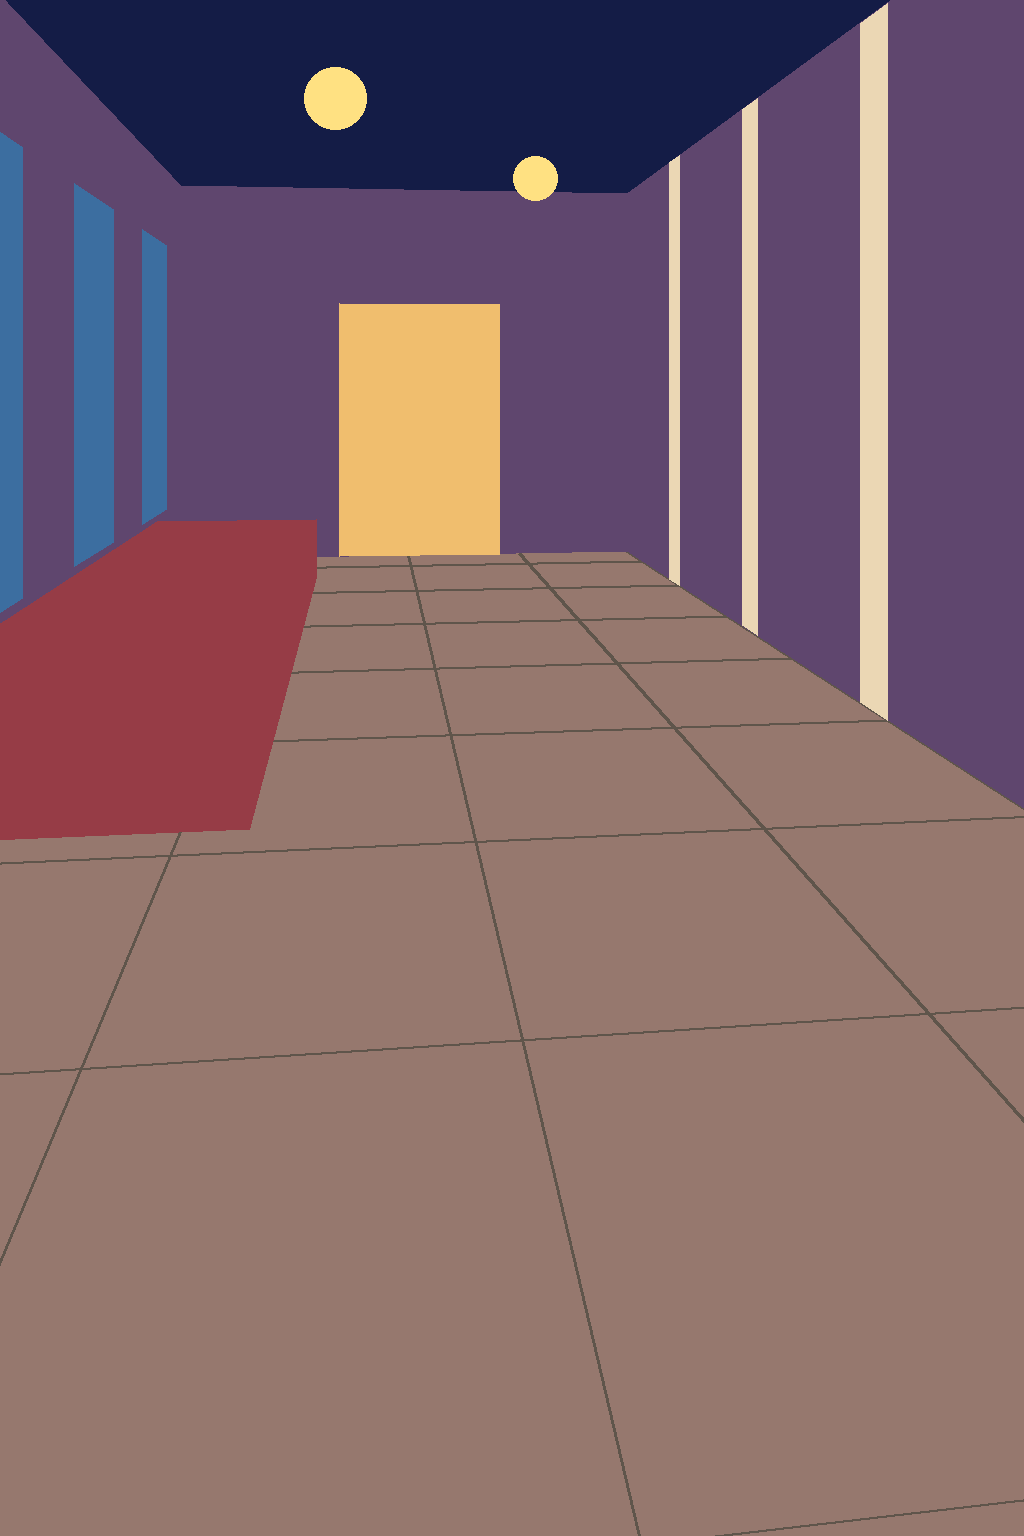
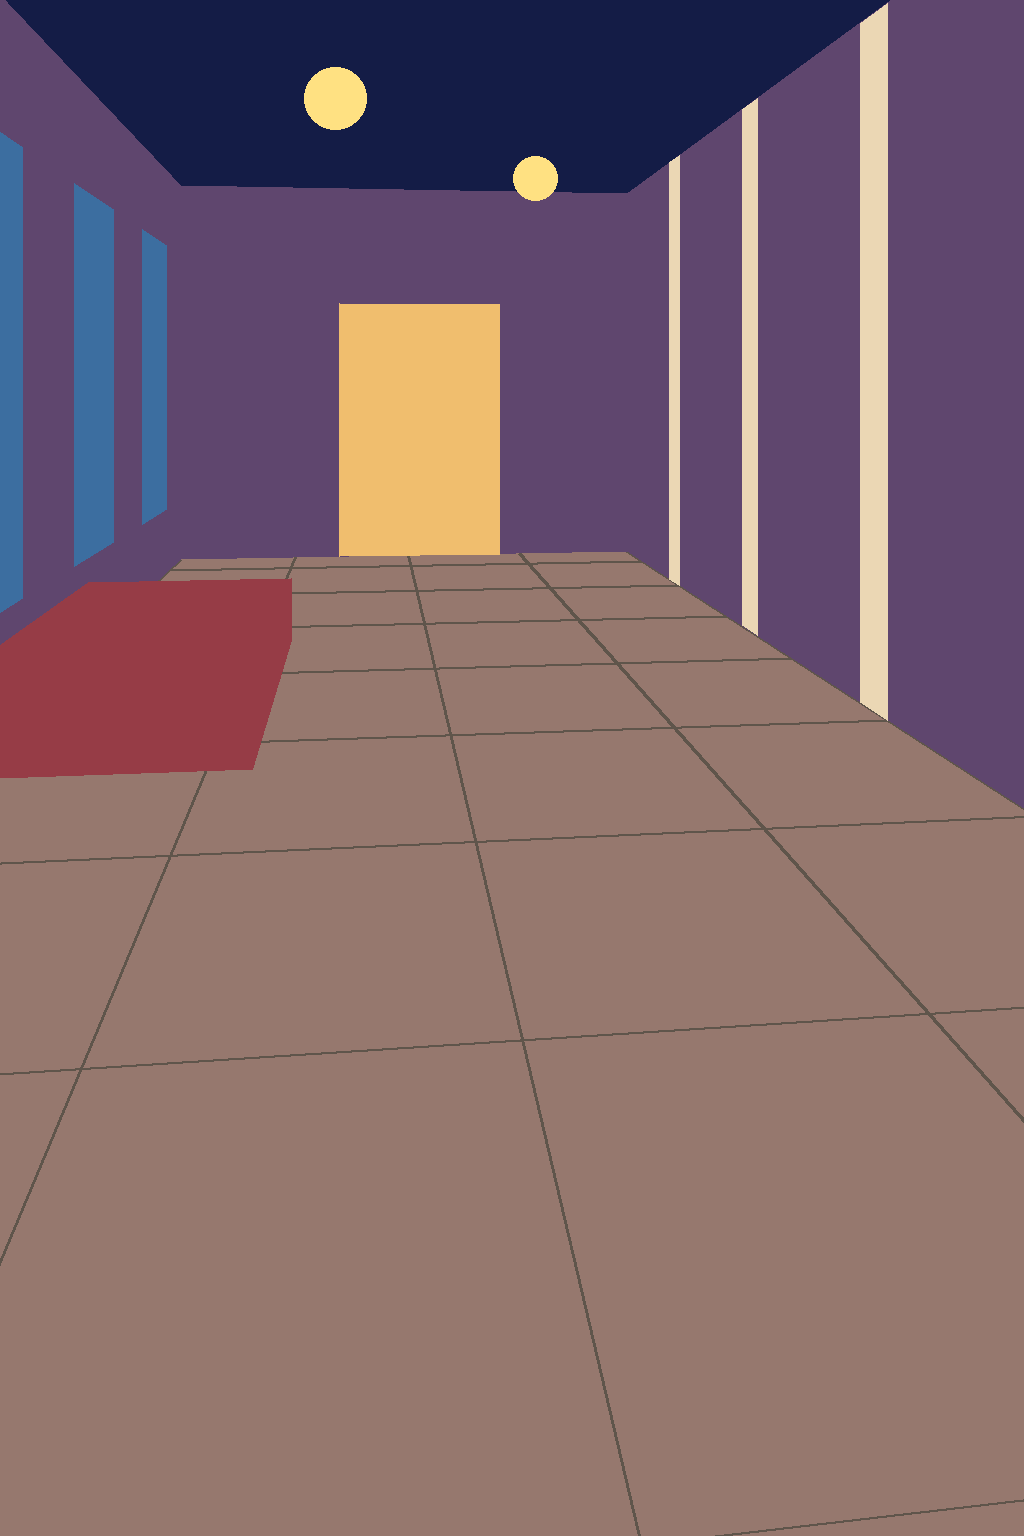
art: the owner accepts indoor plate A, with the bandstand's top as data
assets/art/cool-crowd/cool-crowd-room.png is the accepted room. The spec's camera
and geometry match its paint. floor.json and the compiler's platform_tops give the
bandstand's floor extent and height, for placing a band.

Claude-Session: https://claude.ai/code/session_01ALj27RqsABne97dpmb7emV
Tillandsias-Host: macuahuitl
Generated-By: tool=claude-code

Changed region(s): [[0.0, 0.3125, 0.3125, 0.4375], [0.0, 0.4375, 0.2812, 0.5625]]

diff --git a/tool/art/rooms/compiler.py b/tool/art/rooms/compiler.py
@@ -39,7 +39,7 @@ COLOURS = {
 IDS = {name: i + 1 for i, name in enumerate(COLOURS)}
 
 TOP_KEYS = {"id", "title", "camera", "phone", "safe", "tapBand", "cast", "walkable", "standable", "paint", "story",
-            "marks", "props", "scene", "zones", "keep", "styleRef", "level", "comment", "genSize"}
+            "marks", "props", "scene", "zones", "keep", "styleRef", "level", "comment", "genSize", "platforms"}
 CAMERA_KEYS = {"horizonY", "eyeHeightAdults", "focalPx", "vanishingX", "originBottomX"}
 MARK_KEYS = {"heroHome", "heroEntrance", "heroRetreat", "challengers", "guests", "route", "plants", "routeFacing", "pathEnd"}
 
@@ -419,7 +419,7 @@ def compile_room(spec):
         "image": [W, H], "horizonY": cam.hz / H, "vanishingX": cam.vpx / W, "eyeHeightAdults": cam.eye, "focalPx": cam.f,
         "floorHomography_st_to_px": H_.tolist(), "ids": IDS, "walkable": walkable, "standable": standable,
         "safe": spec["safe"], "tapBand": spec["tapBand"], "phone": spec["phone"], "phoneVisibleX": report["phoneVisibleX"],
-        "lines": p.lines, "lampsNormalized": [[round(x / W, 4), round(y / H, 4)] for x, y in p.lamps],
+        "platforms": platform_tops(spec, cam), "lines": p.lines, "lampsNormalized": [[round(x / W, 4), round(y / H, 4)] for x, y in p.lamps],
         "walkablePixels": int(np.isin(ids, walk_ids).sum()),
         "note": "Adult height at foot y, as a fraction of image height: (y - horizonY) / eyeHeightAdults",
     }
@@ -451,6 +451,25 @@ def prompts(spec):
         "pass1": STYLE["pass1"].format(zones=layout, **fill).strip(),
         "pass2": STYLE["pass2"].format(zones=final, keep=spec["keep"], **fill).strip(),
     }
+
+
+def platform_tops(spec, cam):
+    """Raised surfaces people can stand on, such as a bandstand, from the box each one names in `paint`.
+
+    A figure on top keeps the scale of the floor point under it: its feet go at proj(s, t, z), its height comes
+    from the image y of proj(s, t, 0), through the same (y - horizon) / eye as anywhere else.
+    """
+    tops = []
+    for platform in spec.get("platforms", []):
+        boxes = [p for p in spec["paint"] if p.get("kind") == "box" and p.get("id") == platform["box"]]
+        if len(boxes) != 1:
+            raise RoomError(f"platforms: {platform['id']} names box {platform['box']!r}, found {len(boxes)}")
+        s, t, z = boxes[0]["s"], boxes[0]["t"], boxes[0]["z"][1]
+        corners = [(s[0], t[0]), (s[0], t[1]), (s[1], t[1]), (s[1], t[0])]
+        tops.append({"id": platform["id"], "s": s, "t": t, "heightAdults": z,
+                     "topCornersFrac": [[round(v, 4) for v in (cam.proj(a, b, z)[0] / cam.W, cam.proj(a, b, z)[1] / cam.H)] for a, b in corners],
+                     "note": platform.get("note", "")})
+    return tops
 
 
 def level_fragment(spec, cam, floor):

diff --git a/tool/art/tests/test_rooms.py b/tool/art/tests/test_rooms.py
@@ -106,5 +106,27 @@ class Rooms(unittest.TestCase):
         self.assertEqual(frag["departure"]["originY"], frag["stage"]["heroHome"][1])
 
 
+class PlatformTest(unittest.TestCase):
+    def test_the_bandstand_top_sits_on_the_accepted_plate(self):
+        spec = compiler.load_spec("cool-crowd")
+        cam = compiler.Camera(spec["camera"])
+        top = compiler.platform_tops(spec, cam)[0]
+        self.assertEqual(top["id"], "bandstand")
+        self.assertGreater(top["heightAdults"], 0)
+        # the corners measured by eye on the plate, to within a few pixels
+        front = top["topCornersFrac"][1]
+        rear = top["topCornersFrac"][2]
+        self.assertAlmostEqual(front[0] * cam.W, 238, delta=16)
+        self.assertAlmostEqual(front[1] * cam.H, 677, delta=16)
+        self.assertAlmostEqual(rear[0] * cam.W, 300, delta=16)
+        self.assertAlmostEqual(rear[1] * cam.H, 575, delta=16)
+
+    def test_a_platform_must_name_one_box(self):
+        spec = copy.deepcopy(compiler.load_spec("cool-crowd"))
+        spec["platforms"] = [{"id": "x", "box": "nothing"}]
+        with self.assertRaises(compiler.RoomError):
+            compiler.platform_tops(spec, compiler.Camera(spec["camera"]))
+
+
 if __name__ == "__main__":
     unittest.main()
